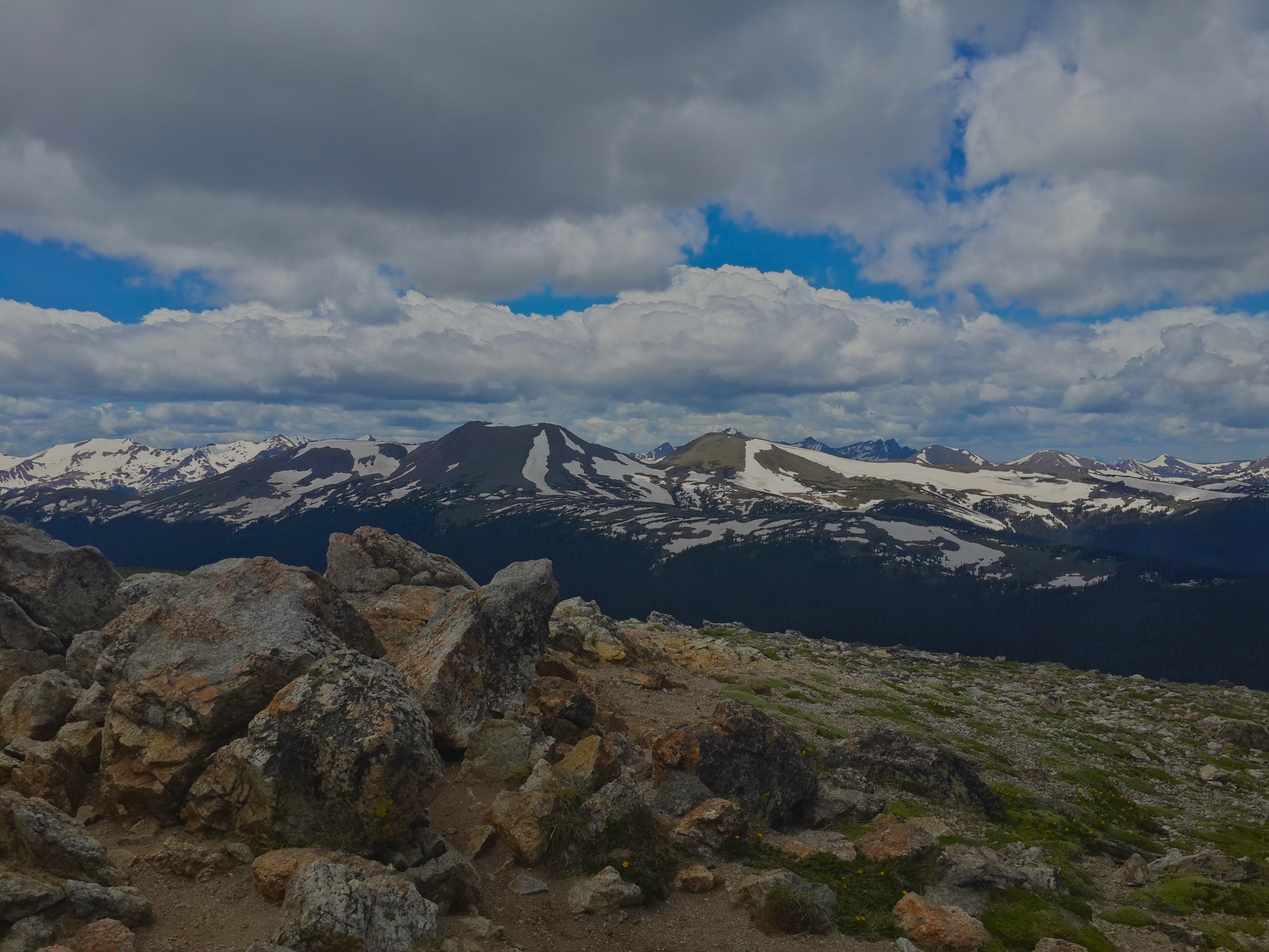
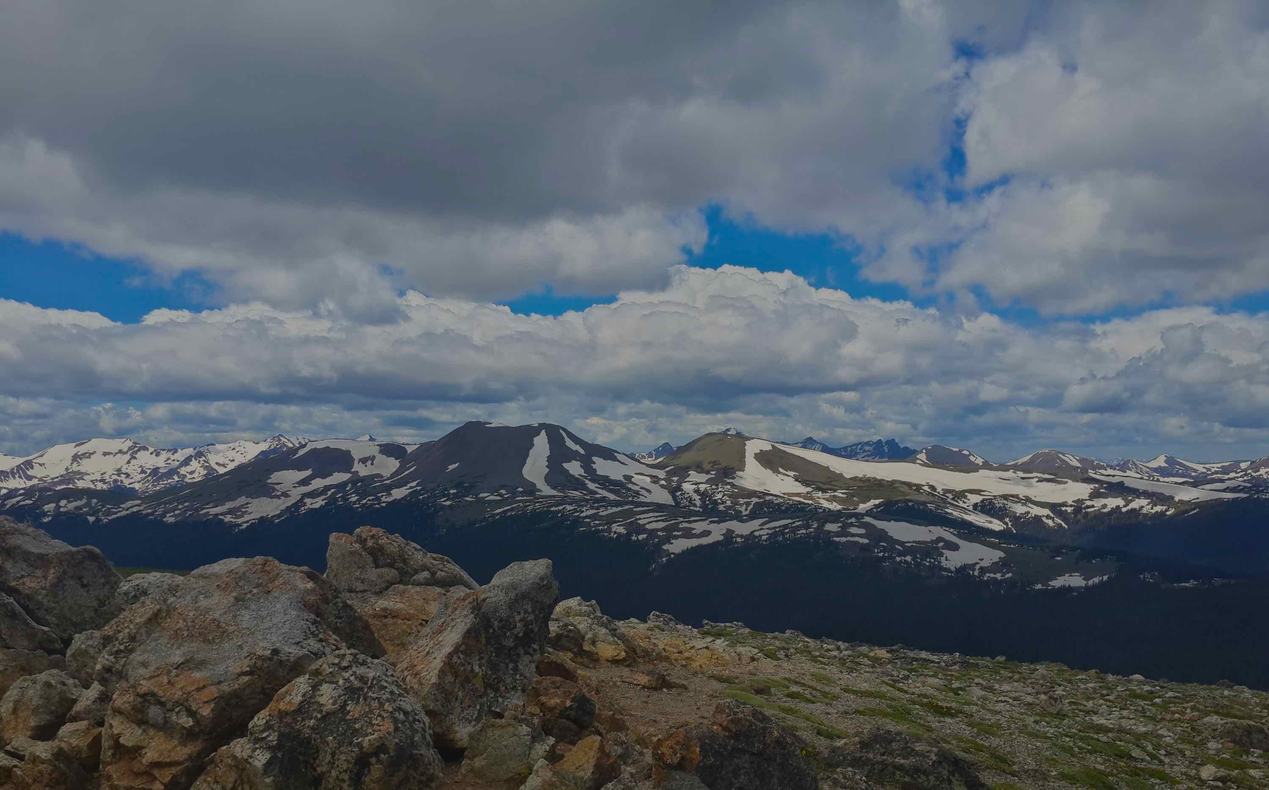
even more photo compressing

diff --git a/_site/index.html b/_site/index.html
@@ -7,7 +7,7 @@
     <title>Edward Zhu</title>
     <meta name="viewport" content="width=device-width">
     <meta name="description" content="I like pandas">
-    <link rel="canonical" href="http://zhued.github.io/blog//">
+    <link rel="canonical" href="http://zhued.github.io/">
 
 
     <!-- Custom CSS & Bootstrap Core CSS - Uses Bootswatch Flatly Theme: http://bootswatch.com/flatly/ -->
@@ -65,7 +65,7 @@
                     <li>
                         <a class="page-scroll" data-toggle="dropdown">More <span class="caret"></span></a>
                         <ul class="dropdown-menu" role="menu">
-                            <li role="presentation"><a role="menuitem" tabindex="-1" href="http://zhued.github.io/blog/">Homepage</a></li>
+                            <li role="presentation"><a role="menuitem" tabindex="-1" href="http://zhued.github.io">Homepage</a></li>
                             <li role="presentation"><a role="menuitem" tabindex="-1" href="blog">Blog</a></li>
                             <!-- <li role="presentation"><a role="menuitem" tabindex="-1" href="#">Another action</a></li>
                             <li role="presentation"><a role="menuitem" tabindex="-1" href="#">Something else here</a></li>

diff --git a/_includes/blog/navbar.html b/_includes/blog/navbar.html
@@ -18,9 +18,9 @@
                     <li class="hidden">
                         <a href="#page-top"></a>
                     </li>
-                    <!-- <li>
-                        <a class="page-scroll" href="#blogposts">Blog Posts</a>
-                    </li> -->
+                    <li>
+                        <a class="page-scroll" href="{{ site.blog-url }}">All Posts</a>
+                    </li>
             <!-- Dropdown Menu Items -->
                     <li>
                         <a class="page-scroll" data-toggle="dropdown">More <span class="caret"></span></a>
